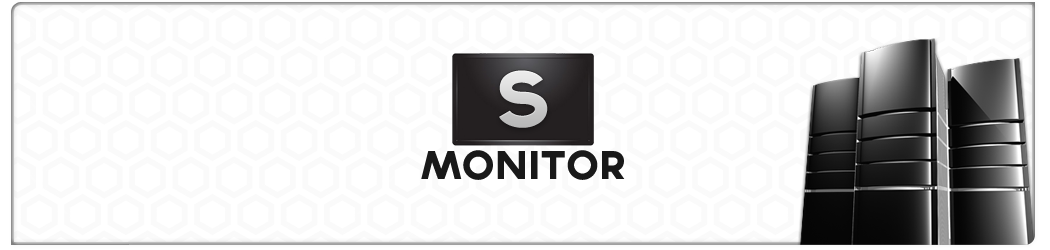
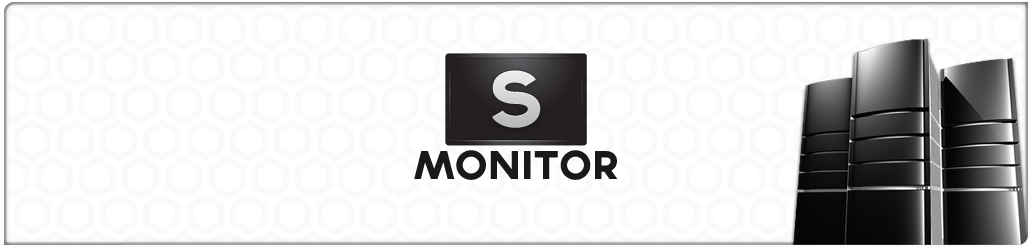
Updating PHP/CSS Code

diff --git a/Source/_css/style.css b/Source/_css/style.css
@@ -10,9 +10,25 @@ body {
 .header {
 	margin: auto;
 	height: 250px;
-	width: 1050px;
+	width: 1032px;
 	background-image: url(../_images/header.png);
 	background-repeat: no-repeat;
+}
+
+.error_api {
+	margin: auto;
+	height: 187px;
+	width: 1032px;
+	background-repeat: no-repeat;
+	background-image: url(../_images/warning_page.png);
+}
+
+.error_api p {
+	padding-top: 70px;
+	text-align: center;
+	font-family: 'Franks';
+	font-size: 250%;
+	font-weight: bold;
 }
 
 .servers_bg {

diff --git a/Source/index.php b/Source/index.php
@@ -24,11 +24,13 @@ $responseXML = curl_seasson($url);
 $xml = simplexml_load_string($responseXML);
 
 if(!is_curl_installed()) {
-	echo "cURL is not installed on server !.";
+	echo "<div class='error_api'><p>cURL is not installed on server !.</p></div>";
+	echo "<div class='footer'><p id='update_data'></p></div>";
 	
 } else {
 	if($xml->attributes()->id == 101 || $xml->attributes()->id == 100) {
-		echo $xml->attributes()->message;
+		echo "<div class='error_api'><p>" . $xml->attributes()->message . "</p></div>";
+		echo "<div class='footer'><p id='update_data'></p></div>";
 
 	} else {
 		foreach($xml->monitor as $monitor) {
